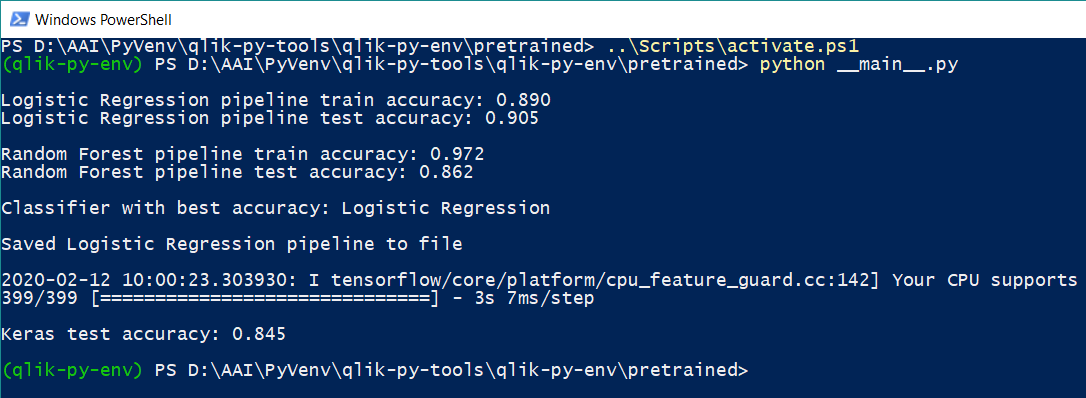
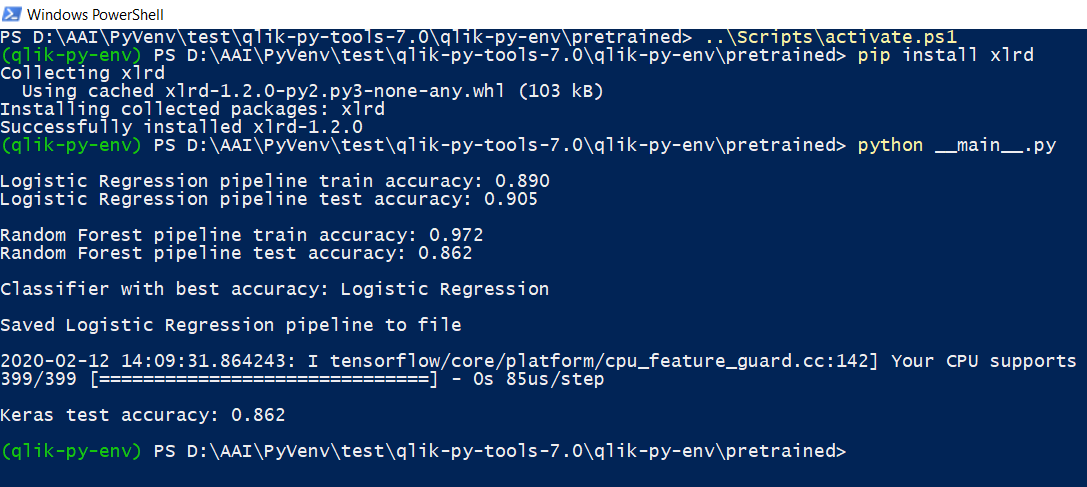
Init script and usage doc updates

diff --git a/README.md b/README.md
@@ -2,11 +2,13 @@
 
 ## Announcements
 
-Version 6.0 with major new updates has been released. Get it [here](https://github.com/nabeel-oz/qlik-py-tools/releases) or with [Docker](https://hub.docker.com/r/nabeeloz/qlik-py-tools).
+Version 7.0 has been released. Get it [here](https://github.com/nabeel-oz/qlik-py-tools/releases) or with [Docker](https://hub.docker.com/r/nabeeloz/qlik-py-tools).
 
-Deep Learning capabilities have been added through integration with Keras and Tensorflow. This offers powerful capabilities for sequence predictions and complex timeseries forecasting.
+This release adds the capability to use pre-trained scikit-learn and Keras models with Qlik. More on this [here](docs/Pretrained.md).
 
-This release also includes the ability to use [Additional Regressors](docs/Prophet.md#additional-regressors) with Prophet, allowing you to model more complex timeseries.
+With version 6, Deep Learning capabilities were added through integration with Keras and Tensorflow. This offers powerful capabilities for sequence predictions and complex timeseries forecasting.
+
+PyTools now also includes the ability to use [Additional Regressors](docs/Prophet.md#additional-regressors) with Prophet, allowing you to model more complex timeseries.
 
 ## Table of Contents
 
@@ -96,7 +98,7 @@ docker run \
     -v ~/Documents/logs:/qlik-py-tools/core/logs \
     nabeeloz/qlik-py-tools
     
-# Run a container in detached mode, storing predictive models on a volume , logs on a bind mount and starting the container anytime you restart your machine
+# Run a container in detached mode, storing predictive models on a volume , logs on a bind mount and restart the container on reboot
 docker run \
     -p 50055:50055 \
     -d \
@@ -104,6 +106,17 @@ docker run \
     -v pytools-models:/qlik-py-tools/models \
     -v ~/Documents/logs:/qlik-py-tools/core/logs \
     nabeeloz/qlik-py-tools
+
+# Run a container in detached mode, restart on reboot, store models and logs to bind mounts, and use certificates for secure communication
+docker run \
+-p 50055:50055 \
+-d \
+--restart unless-stopped \
+--name qlik-py-tools \
+-v ~/sse_PyTools_generated_certs/sse_PyTools_server_certs:/qlik-py-tools/pem-dir \
+-v ~/Documents/models:/qlik-py-tools/models \
+-v ~/Documents/logs:/qlik-py-tools/core/logs \
+nabeeloz/qlik-py-tools python __main__.py --pem_dir=/qlik-py-tools/pem-dir
 ```
 
 
@@ -129,7 +142,7 @@ This installation requires Internet access. To install this SSE on a machine wit
 4. Right click `Qlik-Py-Init.bat` and chose 'Run as Administrator'. You can open this file in a text editor to review the commands that will be executed. If everything goes smoothly you will see a Python virtual environment being set up, project files being copied, some packages being installed and TCP Port `50055` being opened for inbound communication. 
      - Note that the script always ends with a "All done" message and does not check for errors. 
      - If you need to change the port you can do so in the file `core\__main__.py` by opening the file with a text editor, changing the value of the `_DEFAULT_PORT` variable, and then saving the file. You will also need to update `Qlik-Py-Init.bat` to use the same port in the `netsh` command. This command will only work if you run the batch file through an elevated command prompt (i.e. with administrator privileges).
-     - Once the execution completes, do a quick scan of the log to see everything installed correctly. The libraries imported are: `grpcio`, `grpcio-tools`, `numpy`, `scipy`, `pandas`, `cython`, `joblib`, `pystan`, `fbprophet`, `scikit-learn`, `hdbscan`, `skater`, `spacy`, `efficient-apriori`, `tensorflow`, `keras` and their dependencies. Also, check that the `core` and `generated` directories have been copied successfully to the newly created `qlik-py-env` directory.
+     - Once the execution completes, do a quick scan of the log to see everything installed correctly. The libraries imported are: `grpcio`, `grpcio-tools`, `numpy`, `scipy`, `pandas`, `cython`, `joblib`, `pyyaml`, `pystan`, `fbprophet`, `scikit-learn`, `hdbscan`, `skater`, `spacy`, `efficient-apriori`, `tensorflow`, `keras` and their dependencies. Also, check that the `core` and `generated` directories have been copied successfully to the newly created `qlik-py-env` directory.
      - If the initialization fails for any reason, you can simply delete the `qlik-py-env` directory and re-run `Qlik-Py-Init.bat`.
 
 5. Now whenever you want to start this Python service you can run `Qlik-Py-Start.bat`.
@@ -162,7 +175,8 @@ Most of the sample apps require the Dashboard Extension Bundle which was release
 | --- | --- | --- |
 | [Correlations](docs/Correlation.md) | [Correlations](docs/Sample_App_Correlations.qvf) | None. |
 | [Clustering](docs/Clustering.md) | [Clustering with HDBSCAN](docs/Sample_App_Clustering.qvf) | None. |
-| [Machine Learning](docs/scikit-learn.md) | [Train & Test](docs/Sample-App-scikit-learn-Train-Test.qvf)<br><br>[Predict](docs/Sample-App-scikit-learn-Predict.qvf)<br><br>[K-fold Cross Validation](docs/Sample-App-scikit-learn-K-fold-Cross-Validation.qvf)<br><br>[Parameter Tuning](docs/Sample-App-scikit-learn-Parameter-Tuning.qvf)<br><br>[K-fold CV & Parameter Tuning](docs/Sample-App-scikit-learn-K-fold-CV-Grid-Search.qvf)<br><br>[Complex Forecasting with scikit-learn](docs/Sample-App-Forecasting-with-Sklearn.qvf) | Make sure you reload the K-fold Cross Validation or Train & Test app before using the Predict app.<br><br>If using Qlik Sense Desktop you will need to download the [data source](docs/HR-Employee-Attrition.xlsx), create a data connection named `AttachedFiles` in the app, and point the connection to the folder containing the source file.<br><br>The forecasting app is best understood together with the Deep Learning section below. Here we just use more traditional ML algorithms rather than Deep Learning for producing the forecast.<br><br>Make sure you reload the app before using the final sheets to make predictions. The data source for this app can be found [here](docs/bike-sharing/). |
+| [Predictions with pretrained models](docs/Pretrained.md) | [Predictions with scikit-learn and Keras](docs/Sample-App-Pretrained-Predict.qvf) | Follow the [pre-requisites](docs/Pretrained.md#pre-requisites) and [steps](docs/Pretrained.md#complete-example) in the documentation.<br><br>If using Qlik Sense Desktop you will need to download the [data source](docs/HR-Employee-Attrition.xlsx), create a data connection named `AttachedFiles` in the app, and point the connection to the folder containing the source file. |
+| [Machine Learning](docs/scikit-learn.md)<br><br>[Using pre-trained models](docs/Pretrained.md) | [Train & Test](docs/Sample-App-scikit-learn-Train-Test.qvf)<br><br>[Predict](docs/Sample-App-scikit-learn-Predict.qvf)<br><br>[K-fold Cross Validation](docs/Sample-App-scikit-learn-K-fold-Cross-Validation.qvf)<br><br>[Parameter Tuning](docs/Sample-App-scikit-learn-Parameter-Tuning.qvf)<br><br>[K-fold CV & Parameter Tuning](docs/Sample-App-scikit-learn-K-fold-CV-Grid-Search.qvf)<br><br>[Complex Forecasting with scikit-learn](docs/Sample-App-Forecasting-with-Sklearn.qvf) | Make sure you reload the K-fold Cross Validation or Train & Test app before using the Predict app.<br><br>If using Qlik Sense Desktop you will need to download the [data source](docs/HR-Employee-Attrition.xlsx), create a data connection named `AttachedFiles` in the app, and point the connection to the folder containing the source file.<br><br>The forecasting app is best understood together with the Deep Learning section below. Here we just use more traditional ML algorithms rather than Deep Learning for producing the forecast.<br><br>Make sure you reload the app before using the final sheets to make predictions. The data source for this app can be found [here](docs/bike-sharing/). |
 | [Deep Learning](docs/Keras.md) | [Complex Forecasting with Keras](docs/Sample-App-Forecasting-with-Keras.qvf) | Make sure you reload the app before using the final two sheets to make predictions.<br><br>If using Qlik Sense Desktop you will need to download the [data source](docs/bike-sharing/), create a data connection named `AttachedFiles` in the app, and point the connection to the folder containing the source file. |
 | [Forecasting](docs/Prophet.md) | [Facebook Prophet (Detailed)](docs/Sample_App_Prophet.qvf)<br><br>[Facebook Prophet (Simple)](docs/Sample_App_Forecasting_Simple.qvf)<br><br>[Facebook Prophet (Multiple regressors)](docs/Sample-App-Prophet-Multivariate.qvf) | For the detailed app, use the bookmarks to step through the sheets with relevant selections.<br><br>For calling Prophet through the load script refer to the simple app. If you want to reload the app using Qlik Sense Desktop you will need to download the [data source](docs/VIC-Emergency-Department-Attendances.xlsx), create a data connection named `AttachedFiles` in the app, and point the connection to the folder containing the source file.<br><br>For the use of Prophet's additional regressors capability refer to the multiple regressors app. The data for this app is found [here](docs/bike-sharing/). |
 | [Named Entity Recognition](docs/NER.md) | [NER and Association Rules](docs/Sample-App-NER-Apriori.qvf) | If using Qlik Sense Desktop you will need to download the [data sources](docs/LOTR/), create a data connection named `AttachedFiles` in the app, and point the connection to the folder containing the source files. |

diff --git a/docs/README.md b/docs/README.md
@@ -2,11 +2,13 @@
 
 ## Announcements
 
-Version 6.0 with major new updates has been released. Get it [here](https://github.com/nabeel-oz/qlik-py-tools/releases) or with [Docker](https://hub.docker.com/r/nabeeloz/qlik-py-tools).
+Version 7.0 has been released. Get it [here](https://github.com/nabeel-oz/qlik-py-tools/releases) or with [Docker](https://hub.docker.com/r/nabeeloz/qlik-py-tools).
 
-Deep Learning capabilities have been added through integration with Keras and Tensorflow. This offers powerful capabilities for sequence predictions and complex timeseries forecasting.
+This release adds the capability to use pre-trained scikit-learn and Keras models with Qlik. More on this [here](Pretrained.md).
 
-This release also includes the ability to use [Additional Regressors](Prophet.md#additional-regressors) with Prophet, allowing you to model more complex timeseries.
+With version 6, Deep Learning capabilities were added through integration with Keras and Tensorflow. This offers powerful capabilities for sequence predictions and complex timeseries forecasting.
+
+PyTools now also includes the ability to use [Additional Regressors](Prophet.md#additional-regressors) with Prophet, allowing you to model more complex timeseries.
 
 ## Table of Contents
 
@@ -96,7 +98,7 @@ docker run \
     -v ~/Documents/logs:/qlik-py-tools/core/logs \
     nabeeloz/qlik-py-tools
     
-# Run a container in detached mode, storing predictive models on a volume , logs on a bind mount and starting the container anytime you restart your machine
+# Run a container in detached mode, storing predictive models on a volume , logs on a bind mount aand restart the container on reboot
 docker run \
     -p 50055:50055 \
     -d \
@@ -104,6 +106,17 @@ docker run \
     -v pytools-models:/qlik-py-tools/models \
     -v ~/Documents/logs:/qlik-py-tools/core/logs \
     nabeeloz/qlik-py-tools
+
+# Run a container in detached mode, restart on reboot, store models and logs to bind mounts, and use certificates for secure communication
+docker run \
+-p 50055:50055 \
+-d \
+--restart unless-stopped \
+--name qlik-py-tools \
+-v ~/sse_PyTools_generated_certs/sse_PyTools_server_certs:/qlik-py-tools/pem-dir \
+-v ~/Documents/models:/qlik-py-tools/models \
+-v ~/Documents/logs:/qlik-py-tools/core/logs \
+nabeeloz/qlik-py-tools python __main__.py --pem_dir=/qlik-py-tools/pem-dir
 ```
 
 
@@ -129,7 +142,7 @@ This installation requires Internet access. To install this SSE on a machine wit
 4. Right click `Qlik-Py-Init.bat` and chose 'Run as Administrator'. You can open this file in a text editor to review the commands that will be executed. If everything goes smoothly you will see a Python virtual environment being set up, project files being copied, some packages being installed and TCP Port `50055` being opened for inbound communication. 
      - Note that the script always ends with a "All done" message and does not check for errors. 
      - If you need to change the port you can do so in the file `core\__main__.py` by opening the file with a text editor, changing the value of the `_DEFAULT_PORT` variable, and then saving the file. You will also need to update `Qlik-Py-Init.bat` to use the same port in the `netsh` command. This command will only work if you run the batch file through an elevated command prompt (i.e. with administrator privileges).
-     - Once the execution completes, do a quick scan of the log to see everything installed correctly. The libraries imported are: `grpcio`, `grpcio-tools`, `numpy`, `scipy`, `pandas`, `cython`, `joblib`, `pystan`, `fbprophet`, `scikit-learn`, `hdbscan`, `skater`, `spacy`, `efficient-apriori`, `tensorflow`, `keras` and their dependencies. Also, check that the `core` and `generated` directories have been copied successfully to the newly created `qlik-py-env` directory.
+     - Once the execution completes, do a quick scan of the log to see everything installed correctly. The libraries imported are: `grpcio`, `grpcio-tools`, `numpy`, `scipy`, `pandas`, `cython`, `joblib`, `pyyaml`, `pystan`, `fbprophet`, `scikit-learn`, `hdbscan`, `skater`, `spacy`, `efficient-apriori`, `tensorflow`, `keras` and their dependencies. Also, check that the `core` and `generated` directories have been copied successfully to the newly created `qlik-py-env` directory.
      - If the initialization fails for any reason, you can simply delete the `qlik-py-env` directory and re-run `Qlik-Py-Init.bat`.
 
 5. Now whenever you want to start this Python service you can run `Qlik-Py-Start.bat`.
@@ -162,6 +175,7 @@ Most of the sample apps require the Dashboard Extension Bundle which was release
 | --- | --- | --- |
 | [Correlations](Correlation.md) | [Correlations](Sample_App_Correlations.qvf) | None. |
 | [Clustering](Clustering.md) | [Clustering with HDBSCAN](Sample_App_Clustering.qvf) | None. |
+| [Predictions with pretrained models](Pretrained.md) | [Predictions with scikit-learn and Keras](Sample-App-Pretrained-Predict.qvf) | Follow the [pre-requisites](Pretrained.md#pre-requisites) and [steps](Pretrained.md#complete-example) in the documentation.<br><br>If using Qlik Sense Desktop you will need to download the [data source](HR-Employee-Attrition.xlsx), create a data connection named `AttachedFiles` in the app, and point the connection to the folder containing the source file. |
 | [Machine Learning](scikit-learn.md) | [Train & Test](Sample-App-scikit-learn-Train-Test.qvf)<br><br>[Predict](Sample-App-scikit-learn-Predict.qvf)<br><br>[K-fold Cross Validation](Sample-App-scikit-learn-K-fold-Cross-Validation.qvf)<br><br>[Parameter Tuning](Sample-App-scikit-learn-Parameter-Tuning.qvf)<br><br>[K-fold CV & Parameter Tuning](Sample-App-scikit-learn-K-fold-CV-Grid-Search.qvf)<br><br>[Complex Forecasting with scikit-learn](Sample-App-Forecasting-with-Sklearn.qvf) | Make sure you reload the K-fold Cross Validation or Train & Test app before using the Predict app.<br><br>If using Qlik Sense Desktop you will need to download the [data source](HR-Employee-Attrition.xlsx), create a data connection named `AttachedFiles` in the app, and point the connection to the folder containing the source file.<br><br>The forecasting app is best understood together with the Deep Learning section below. Here we just use more traditional ML algorithms rather than Deep Learning for producing the forecast.<br><br>Make sure you reload the app before using the final sheets to make predictions. The data source for this app can be found [here](bike-sharing/). |
 | [Deep Learning](Keras.md) | [Complex Forecasting with Keras](Sample-App-Forecasting-with-Keras.qvf) | Make sure you reload the app before using the final two sheets to make predictions.<br><br>If using Qlik Sense Desktop you will need to download the [data source](bike-sharing/), create a data connection named `AttachedFiles` in the app, and point the connection to the folder containing the source file. |
 | [Forecasting](Prophet.md) | [Facebook Prophet (Detailed)](Sample_App_Prophet.qvf)<br><br>[Facebook Prophet (Simple)](Sample_App_Forecasting_Simple.qvf)<br><br>[Facebook Prophet (Multiple regressors)](Sample-App-Prophet-Multivariate.qvf) | For the detailed app, use the bookmarks to step through the sheets with relevant selections.<br><br>For calling Prophet through the load script refer to the simple app. If you want to reload the app using Qlik Sense Desktop you will need to download the [data source](VIC-Emergency-Department-Attendances.xlsx), create a data connection named `AttachedFiles` in the app, and point the connection to the folder containing the source file.<br><br>For the use of Prophet's additional regressors capability refer to the multiple regressors app. The data for this app is found [here](bike-sharing/). |

diff --git a/docs/Pretrained.md b/docs/Pretrained.md
@@ -237,17 +237,21 @@ PyTools.Predict('HR-Attrition-v1', FeaturesExpression, 'debug=true')
 
 ### Complete Example
 
-A complete example to generate sample scikit-learn and Keras models is available [here](sample-scripts).
+A complete example to generate sample scikit-learn and Keras models is available [here](sample-scripts/).
 
 A [Jupyter notebook](sample-scripts/HR-Attrition-Model.ipynb) is available for reference. However, to generate the models and call them from Qlik you'll need to follow the steps below to ensure the models are compatible with the SSE. 
 
 - Create a subdirectory called `pretrained` under your SSE's `qlik-py-env` directory. 
-- Copy the `__main__.py` and `preprocessor.py` files from [here](sample-scripts) to `qlik-py-env/pretrained`. 
+- Copy the `__main__.py` and `preprocessor.py` files from [here](sample-scripts/) to `qlik-py-env/pretrained`. 
 - Copy the [data source](HR-Employee-Attrition.xlsx) to `qlik-py-env/pretrained`.
-- Copy `HR-Attrition-v1.yaml` and `HR-Attrition-v2.yaml` from [here](sample-scripts) to `qlik-py-env/models`. Note that these need to be placed in the `models` directory, not `pretrained`.
+- Copy `HR-Attrition-v1.yaml` and `HR-Attrition-v2.yaml` from [here](sample-scripts/) to `qlik-py-env/models`. Note that these need to be placed in the `models` directory, not `pretrained`.
 - Open a terminal in the `qlik-py-env/pretrained` directory and activate the Python virtual environment. For Windows you would open a PowerShell window and use the following command:
     ```
     ..\Scripts\activate.ps1
+    ```
+    Install the `xlrd` package that is not installed with the SSE. This is to allow Pandas to read from the Excel data source.
+    ```
+    pip install xlrd
     ```
     Then generate the models using `__main.py__`:
     ```

diff --git a/docs/scikit-learn.md b/docs/scikit-learn.md
@@ -3,6 +3,7 @@
 ## Table of Contents
 
 - [Introduction](#introduction)
+     - [Using pre-trained models in Qlik](#using-pre-trained-models-in-qlik)
 - [Supervised Machine Learning](#supervised-machine-learning)
      - [Preparing data](#preparing-data)
      - [Preparing feature definitions](#preparing-feature-definitions)
@@ -36,7 +37,7 @@ This SSE provides functions to train, test and evaluate models and then use thes
 
 In addition this SSE also implements the unsupervised machine learning algorithms available in scikit-learn. These include techniques for inferring structure in unlablelled data such as clustering and dimensionality reduction.
 
-**Using existing scikit-learn models in Qlik**
+### Using pre-trained models in Qlik
 
 This SSE also provides capability to get predictions from externally trained scikit-learn and Keras models. This capability is explained [here](Pretrained.md).
 
